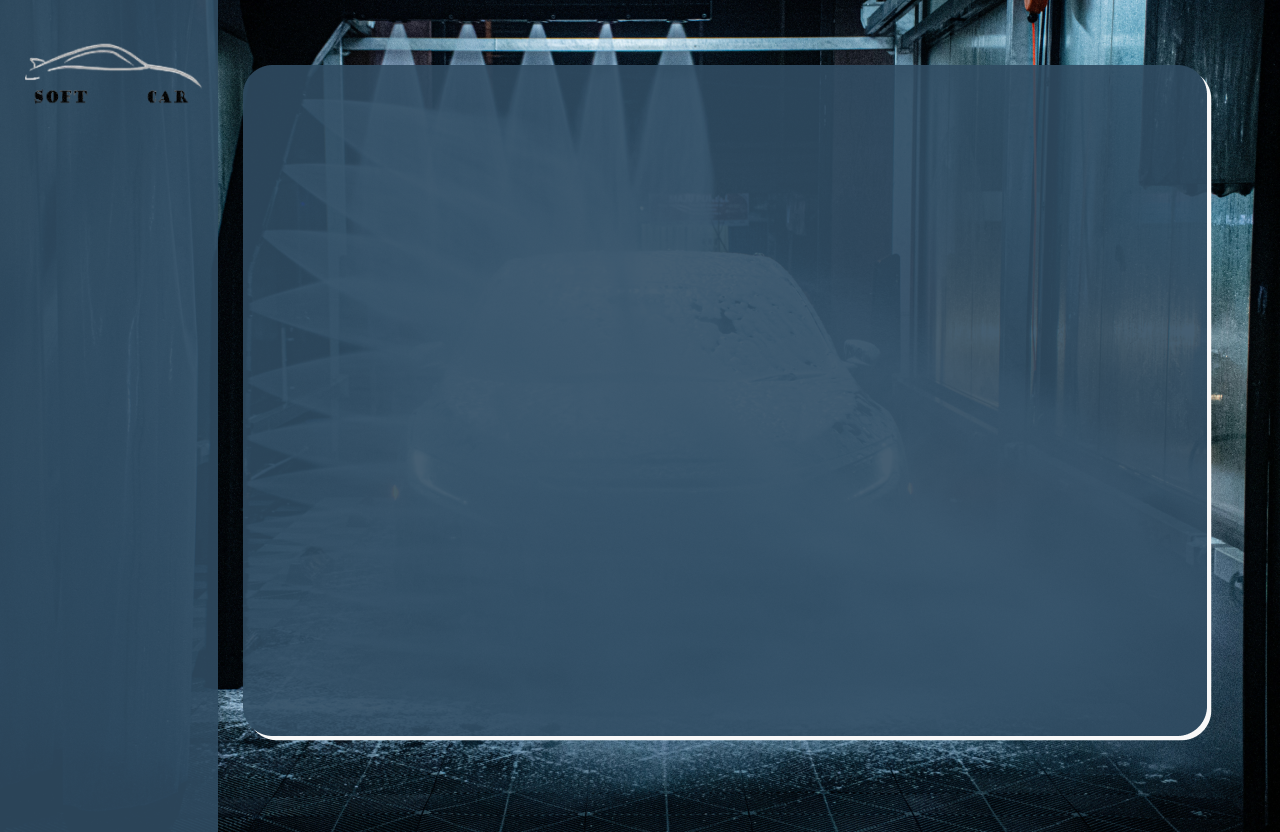
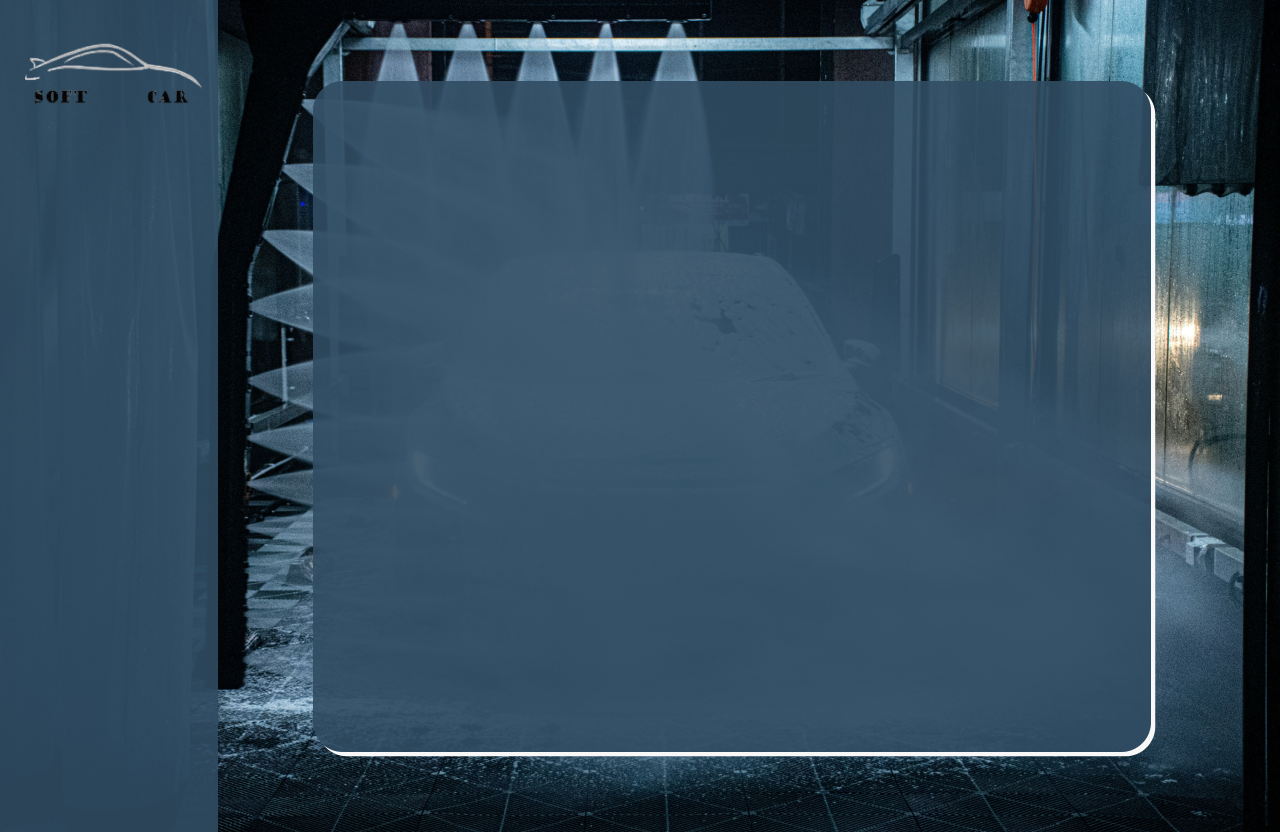
atualização 16.07.2026 noite

Changed region(s): [[0.1875, 0.0625, 0.9688, 0.9375]]

diff --git a/view/lista_funcionarios.py b/view/lista_funcionarios.py
@@ -111,29 +111,30 @@ def abrir_formulario(tree, dados=None):
         y_pos += 50
 
     # ---- FORMULÁRIO ----
-    frame = ctk.CTkFrame(canvas, fg_color="#375269", corner_radius=0, border_width=0)
+    frame = ctk.CTkFrame(canvas, fg_color="#375269", corner_radius=15, border_width=0)
 
     def _atualizar_frame(e):
         if e.widget != modal:
             return
         w, h = e.width, e.height
-        canvas.coords(frame_window, 192, 60)
-        canvas.itemconfig(frame_window, width=w - 250, height=h - 250)
+        canvas.coords(frame_window, 250, 65)
+        canvas.itemconfig(frame_window, width=w - 350, height=h - 135)
 
     frame_window = canvas.create_window(0, 0, window=frame, anchor="nw", width=1000, height=800)
 
     modal.bind("<Configure>", _atualizar_frame)
 
     campos = ["nome_func", "email_func", "telefone_func", "cpf_func", "cargo", "endereco_func", "data_nascimento_func", "senha"]
-    labels = ["Nome", "E-mail", "Telefone", "CPF", "Cargo (lavador/atendente)", "Endereço", "Data de Nascimento (YYYY-MM-DD)", "Senha"]
+    labels = ["Nome", "E-mail", "Telefone", "CPF", "Cargo (lavador/atendente)", "Endereço", "Data de Nascimento", "Senha"]
     entries = {}
 
     for i, (campo, label) in enumerate(zip(campos, labels)):
         row_frame = ctk.CTkFrame(frame, fg_color="transparent")
-        row_frame.pack(fill="x", padx=20, pady=2)
-        ctk.CTkLabel(row_frame, text=label, font=("Arial", 11, "bold"), text_color="#ffffff", width=180, anchor="w").pack(side="left")
-        entry = ctk.CTkEntry(row_frame, font=("Arial", 13), fg_color="#c2c7cc", border_width=2, border_color="#b0b5b9", text_color="#333333", corner_radius=0, justify="center")
-        entry.pack(side="left", fill="x", expand=True, padx=(0, 20))
+        top_pad = 30 if i == 0 else 10
+        row_frame.pack(fill="x", padx=20, pady=(top_pad, 10))
+        ctk.CTkLabel(row_frame, text=label, font=("Arial", 11, "bold"), text_color="#ffffff", width=160, anchor="w").pack(side="left")
+        entry = ctk.CTkEntry(row_frame, font=("Arial", 13), fg_color="#c2c7cc", border_width=2, border_color="#b0b5b9", text_color="#333333", corner_radius=8, justify="center")
+        entry.pack(side="left", fill="x", expand=True, padx=(10, 0))
         if dados:
             entry.insert(0, dados[campo])
         entries[campo] = entry